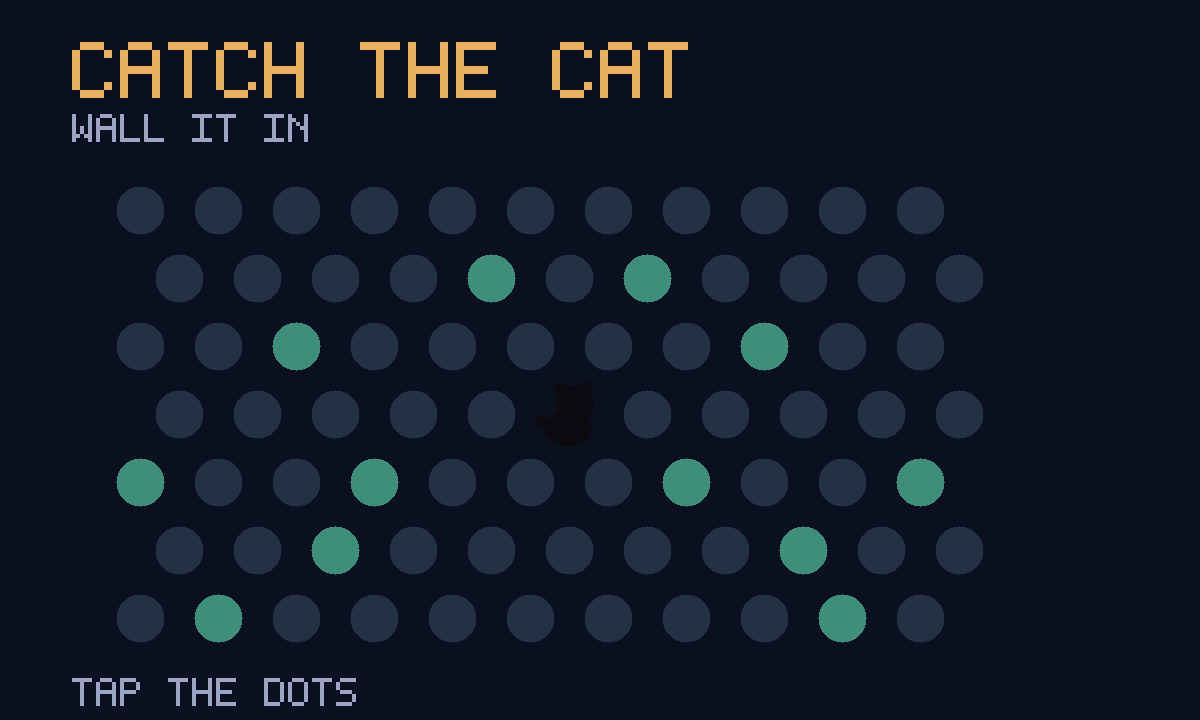
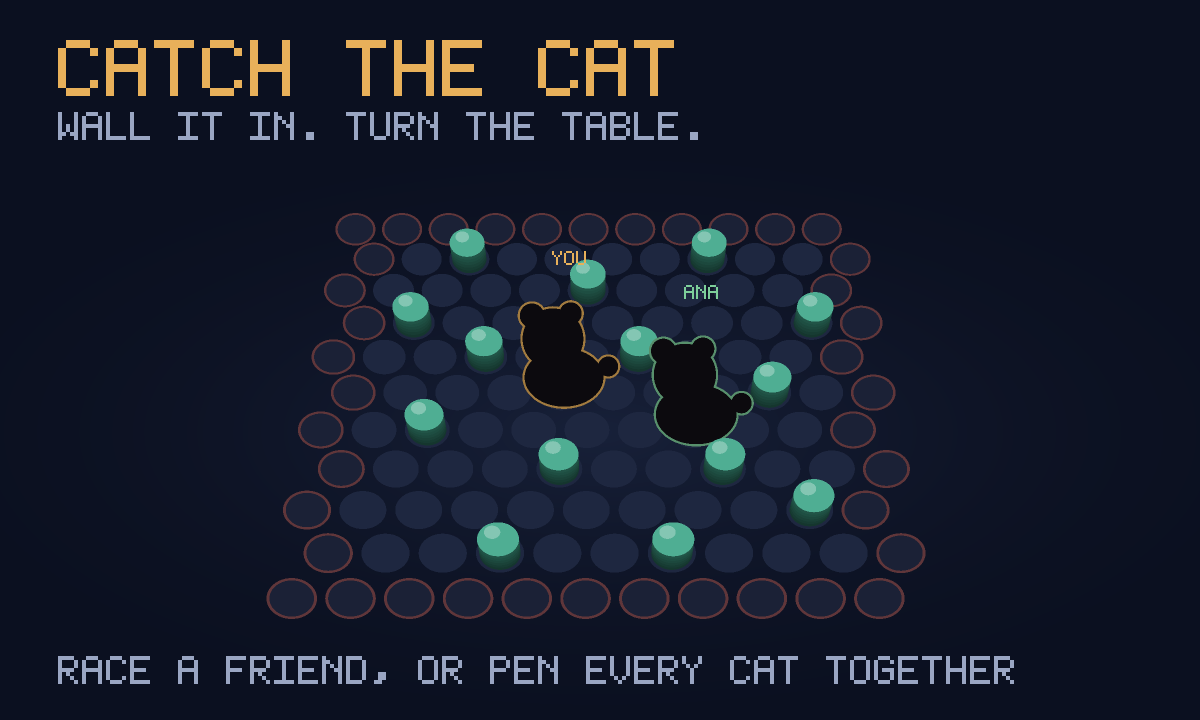
catch-the-cat 1.2.0: the words, the cover, and the shelf entry
help.md and the store listing now describe the game that is actually there:
a table you can turn, a cat that walks, and two ways to play it with other
people. The old copy still told you to pinch to zoom the PAGE.

The cover is a DRAWING of the app, not a capture of it, so it goes stale
silently — and in 1.2.0 the board stopped being flat, which made a cover
showing a flat grid an advert for a different game. It now projects the way
view.js does: rotateX by the tilt, divide by the perspective term, paint back
row to front row so a wall column can stand in front of the dot behind it.
Raised walls, the red rim ring, and two named cats in two colours, because the
headline is that there can be more than one.

The cover's alphabet had thirteen letters missing (G J K M Q R U V X Y Z and
two punctuation marks), and a missing glyph fell through to a space — so it
silently deleted letters out of the middle of words. "TURN THE TABLE" rendered
as "T N THE TABLE". Fixed rather than worked around, because the next person to
write a line of cover copy would have hit it too.

build.mjs packs the three new modules and now ASSERTS THEIR ORDER in
index.html: engine.js has to install its hook on Phaser's SVG loader before
the game is built, and boot.js has to find all three already defined. The
runtime inlines scripts in document order, so document order IS the load
order, and nothing else was checking it.

e2e-catch-the-cat-room is indexed in test/README's browser section. The tier
[…]

Changed region(s): [[0.0308, 0.2444, 0.8633, 0.9778], [0.0308, 0.0306, 0.5858, 0.2139]]

diff --git a/site/go/catch-the-cat/index.html b/site/go/catch-the-cat/index.html
@@ -4,12 +4,12 @@
 <meta charset="utf-8">
 <meta name="viewport" content="width=device-width, initial-scale=1">
 <title>Catch the Cat on GifOS</title>
-<meta name="description" content="Tap the dots. Wall the cat in before it reaches the edge.">
+<meta name="description" content="Tap the dots. Wall the cat in — alone, against a friend, or together.">
 <link rel="canonical" href="https://gifos.app/go/catch-the-cat/">
 <meta property="og:type" content="website">
 <meta property="og:site_name" content="GifOS">
 <meta property="og:title" content="Catch the Cat on GifOS">
-<meta property="og:description" content="Tap the dots. Wall the cat in before it reaches the edge.">
+<meta property="og:description" content="Tap the dots. Wall the cat in — alone, against a friend, or together.">
 <meta property="og:url" content="https://gifos.app/go/catch-the-cat/">
 <meta property="og:image" content="https://gifos.app/apps/catch-the-cat/cover.jpg">
 <meta property="og:image:width" content="1200">
@@ -17,7 +17,7 @@
 <meta property="og:image:alt" content="Catch the Cat on GifOS">
 <meta name="twitter:card" content="summary_large_image">
 <meta name="twitter:title" content="Catch the Cat on GifOS">
-<meta name="twitter:description" content="Tap the dots. Wall the cat in before it reaches the edge.">
+<meta name="twitter:description" content="Tap the dots. Wall the cat in — alone, against a friend, or together.">
 <meta name="twitter:image" content="https://gifos.app/apps/catch-the-cat/cover.jpg">
 <meta name="twitter:image:alt" content="Catch the Cat on GifOS">
 <script>location.replace(/(^|[?&])store([=&]|$)/.test(location.search) ? "https://gifos.app/store/catch-the-cat" : "https://gifos.app/?run=catch-the-cat");</script>

diff --git a/apps/catch-the-cat/boot.js b/apps/catch-the-cat/boot.js
@@ -212,7 +212,7 @@
     var out = list.filter(function (p) { return p.cstate === 'gone'; });
     var total = 0;
     list.forEach(function (p) { total += p.clicks || 0; });
-    var head = (round ? 'Round ' + round : 'Together') + ' · ' + taps(total);
+    var head = round ? 'Round ' + round : 'Together';
     if (out.length) head += ' · one got out';
     else if (!chasing.length) head += ' · all penned';
     else head += ' · ' + chasing.length + ' loose';
@@ -230,7 +230,8 @@
 
     rosterEl.innerHTML =
       '<div class="head"><i class="pip" style="--tone:transparent"></i>' +
-      '<span class="who">' + escapeHtml(head) + '</span><span class="taps">cat</span></div>' + rows;
+      '<span class="who">' + escapeHtml(head) + '</span>' +
+      '<span class="taps">' + taps(total) + '</span></div>' + rows;
   }
 
   // ---------------------------------------------------------------- verdicts

diff --git a/apps/catch-the-cat/help.md b/apps/catch-the-cat/help.md
@@ -4,39 +4,66 @@ A black cat sits in the middle of a honeycomb. You turn dots into walls. After e
 
 ## The board
 
-**11×11** dots, hex-style. Eight walls are already scattered, so the first board is never empty. You cannot wall the cat’s own hex, and you cannot tap a wall twice.
+**11×11** dots on a table you can pick up and turn. Eight walls are already scattered, so the first board is never empty. The outer ring is the **rim** — it is drawn in red, and a cat that reaches it is gone. You cannot wall a cat's own hex, and you cannot tap a wall twice.
+
+## Turning the board
+
+The board is a real 3D table, not a picture of one.
+
+- **Drag** with one finger (or the mouse) to turn it — sideways spins it, up and down tilts it.
+- **Pinch**, or scroll the wheel, to move in. It is a proper dolly, so the closer you get the deeper the perspective.
+- **Two fingers** together also twist and shove the board around.
+- **Flat** looks straight down at it, which is how the game was originally drawn. **Reset view** puts everything back.
+
+A tap and a drag are told apart on release: anything that travelled more than a few pixels turns the board and never walls a hex. So a shaky thumb cannot cost you a move.
 
 ## Controls
 
-**Phone, mouse, or finger:** tap an open dot. That is the whole game. There is no keyboard. On a phone, **pinch with two fingers** to zoom the board if the dots run small; one finger always stays a tap.
+**Tap an open dot.** That is the whole game. There is no keyboard.
 
-- **Undo** takes back your last wall and the cat’s last step. You cannot undo after the cat is caught or has run.
+- **Undo** takes back your last wall and the cat's last step.
 - **New board** scatters a new set of starting walls.
 
-Playing alone, tapping a finished honeycomb starts another chase. Prefer **New board** when you mean a fresh start. In a race the finished board stops taking taps — see below.
+The cat takes about six tenths of a second to walk a hex, and you can watch it do it — that is the point of the animation. Tapping again while it walks does not skip the step; the cat breaks into a run and catches up.
 
 ## Scoring
 
 Your **tap count** is how many walls you added — not counting the eight that were already there. Lower is better. There are no lives.
 
-## Racing a friend
+## Playing with other people
 
-Press **Invite** in the bar above this app. Everyone who opens the link gets the **same starting walls**. You each play your own copy — same cat, same first eight — and the fewest taps to pen the cat takes the round. If the cat gets away from you, you are out of that round. If it gets away from everyone, nobody takes it.
+Press **Invite** in the bar above this app. Once someone joins, a **Race / Team** switch appears. Either of you can flip it; the whole room follows, because the mode belongs to the round and not to a player.
+
+### Race
+
+Everyone gets the **same starting walls** and plays their own private copy. Your walls are yours — they never appear on anybody else's board. Fewest taps to pen the cat takes the round. If the cat gets away from you, you are out of that round. If it gets away from everyone, nobody takes it.
 
 The list under the board is the running score:
 
+- **#** — where you stand right now.
 - **wins** — rounds taken so far. The ♛ marks whoever is ahead.
-- **this board** — how the round in front of each player is going right now. "got away" means the cat beat them.
+- **this board** — how the round in front of each player is going. "got away" means the cat beat them.
 - **🔥3** — three rounds in a row.
 
-When your round ends, your board stops taking taps: the race is still on for everyone else, and a stray tap would only start you a private chase. As soon as the last player finishes, every screen calls the same result. Press **Next round** and the whole room gets a new board.
+When your round ends your board stops taking taps — the race is still on for everyone else, and a stray tap would only start you a private chase. You can still turn and zoom the board and watch. As soon as the last player finishes, every screen calls the same result. A tie splits the round. If everybody else leaves before it ends, it is called off and nobody scores: the last one left has not beaten anyone.
 
-A tie splits the round — everyone on the fewest taps takes it. If everybody else leaves before the round ends, it is called off and nobody scores; the last one left has not beaten anyone.
+### Team
 
-Until a friend joins, you just play the honeycomb in front of you.
+**One board, one cat each, and nobody takes turns.** Your taps move only your cat, whenever you make them. Everyone's cat has its own colour, and its name floats above it.
 
-Nobody can play your taps for you.
+The board is shared, and that is the whole game: **the wall you lay pens everyone's cat, not just yours.**
+
+- You **clear** the round when every cat is walled in.
+- You **lose** it the moment **any one** cat reaches the rim — it does not wait for the others. One cat out is already the answer.
+
+Your own cat being penned does not end your round. Keep walling: your walls are what pens everyone else's.
+
+Cats do not block each other. Two can stand on the same hex, and walls are the only thing that stops any of them.
+
+Up to seven cats have their own starting seat. Beyond that, seats are shared.
 
 ## What is saved
 
 Nothing in the file. Close the app and the board is gone. The standings last as long as the room does.
+
+Nobody can play your taps for you.

diff --git a/test/README.md b/test/README.md
@@ -808,7 +808,17 @@ Roughly three families in one directory:
   `e2e-wasm`, `e2e-irl`,
   `e2e-sound-it-out-share` (what a shared app shares: the sight-word list is
   CURRICULUM and must reach a guest both ways, while private prefs must never
-  appear in the mirror — it lived in private prefs and silently did not cross).
+  appear in the mirror — it lived in private prefs and silently did not cross),
+  `e2e-catch-the-cat-room` (TWO copies of one app, in two same-origin iframes,
+  over one shared fake `gifos.db` — the only way to see the failures that need
+  a second client: a race board must be PRIVATE, a co-op wall must cross to
+  everybody, a tap must move only the tapper's cat, and one escape must lose
+  the round on BOTH screens without waiting for the other cat. It spawns its
+  own server on an ephemeral port and needs neither the site nor the relay.
+  The co-op CLEAR verdict is deliberately NOT here — penning a cat is the game,
+  there is no short scripted line that wins, and a drill good enough to win
+  would be testing its own heuristic; that arithmetic is pinned on two real
+  net.js clients in `unit/catch-the-cat.js` instead).
 - **meeting** — `e2e-meet-lobby`, `e2e-meet-invite`, `e2e-meet-prettyurl`,
   `e2e-meet-quiet`, `e2e-meet-record-app`, `e2e-meet-mod` (blur/mute/undo,
   stage, vote, admin rooms — 48 checks), `e2e-meet-password`, `e2e-video`,
